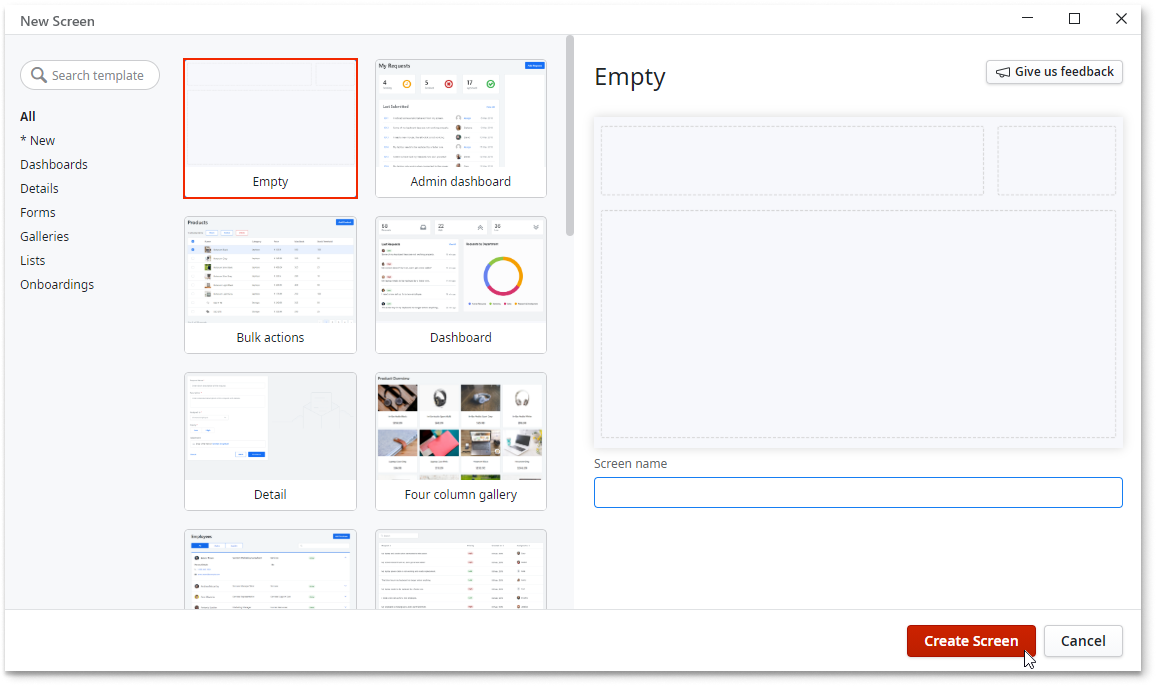
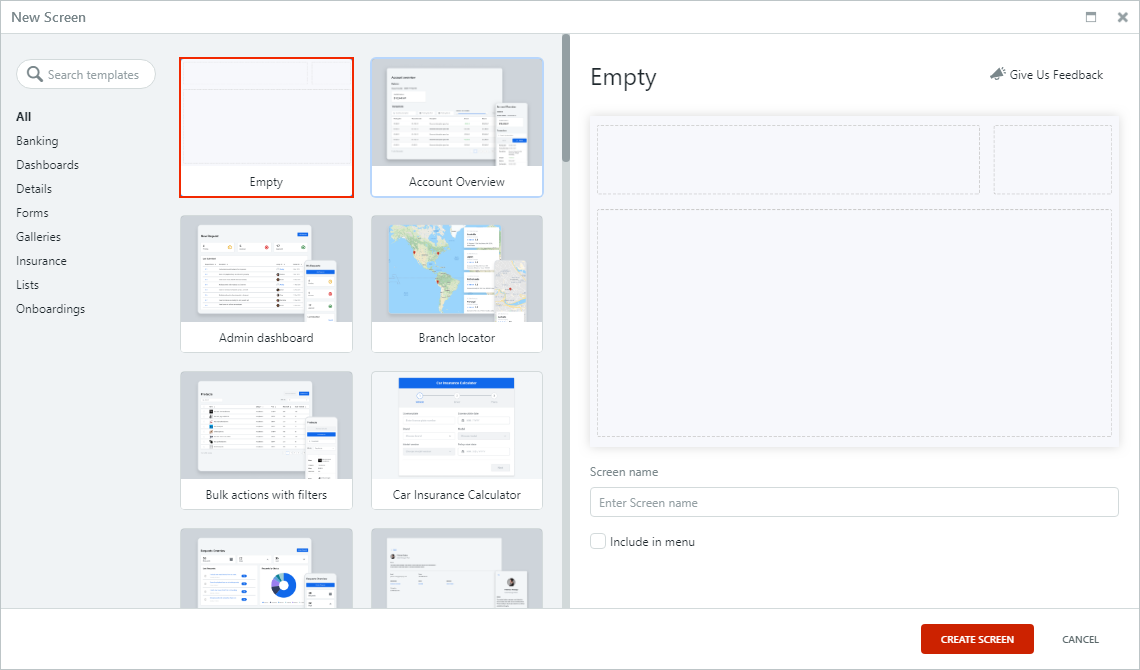
[TK-4347] and [TK-4346] Documenting "Add to Menu" feature in Screen Templates

diff --git a/src/develop/ui/screens/intro.md b/src/develop/ui/screens/intro.md
@@ -23,14 +23,21 @@ To create a Screen, follow these steps in Service Studio:
 
     ![Add a Screen](images/add-screen-ss.png)
 
-1. Select one of the following:
+1. Select one of the following options:
     
-    * **Empty**, to create an empty Screen
-    * A Screen Template, to create a Screen based on a template
-
-    ![create Blank Screen](images/create-blank-screen-ss.png)
+    * Choose **Empty** to create an empty Screen.
+![create Blank Screen](images/create-blank-screen-ss.png)
+    * Choose one of the Screen Templates to create a Screen based on a template. To add this screen to the navigation menu select **Include in Menu**.
+![create Blank Screen](images/add-new-screen-to-menu.png)
+    
 
 1. Optionally, enter a name in the **Screen name** field.
+
+<div class="info" markdown="1">
+
+If you have selected **Include in Menu**, the **Screen name** you have given this new screen will appear in the navigation **Menu** block.
+
+</div>
 
 1. Click **Create Screen**.
 
